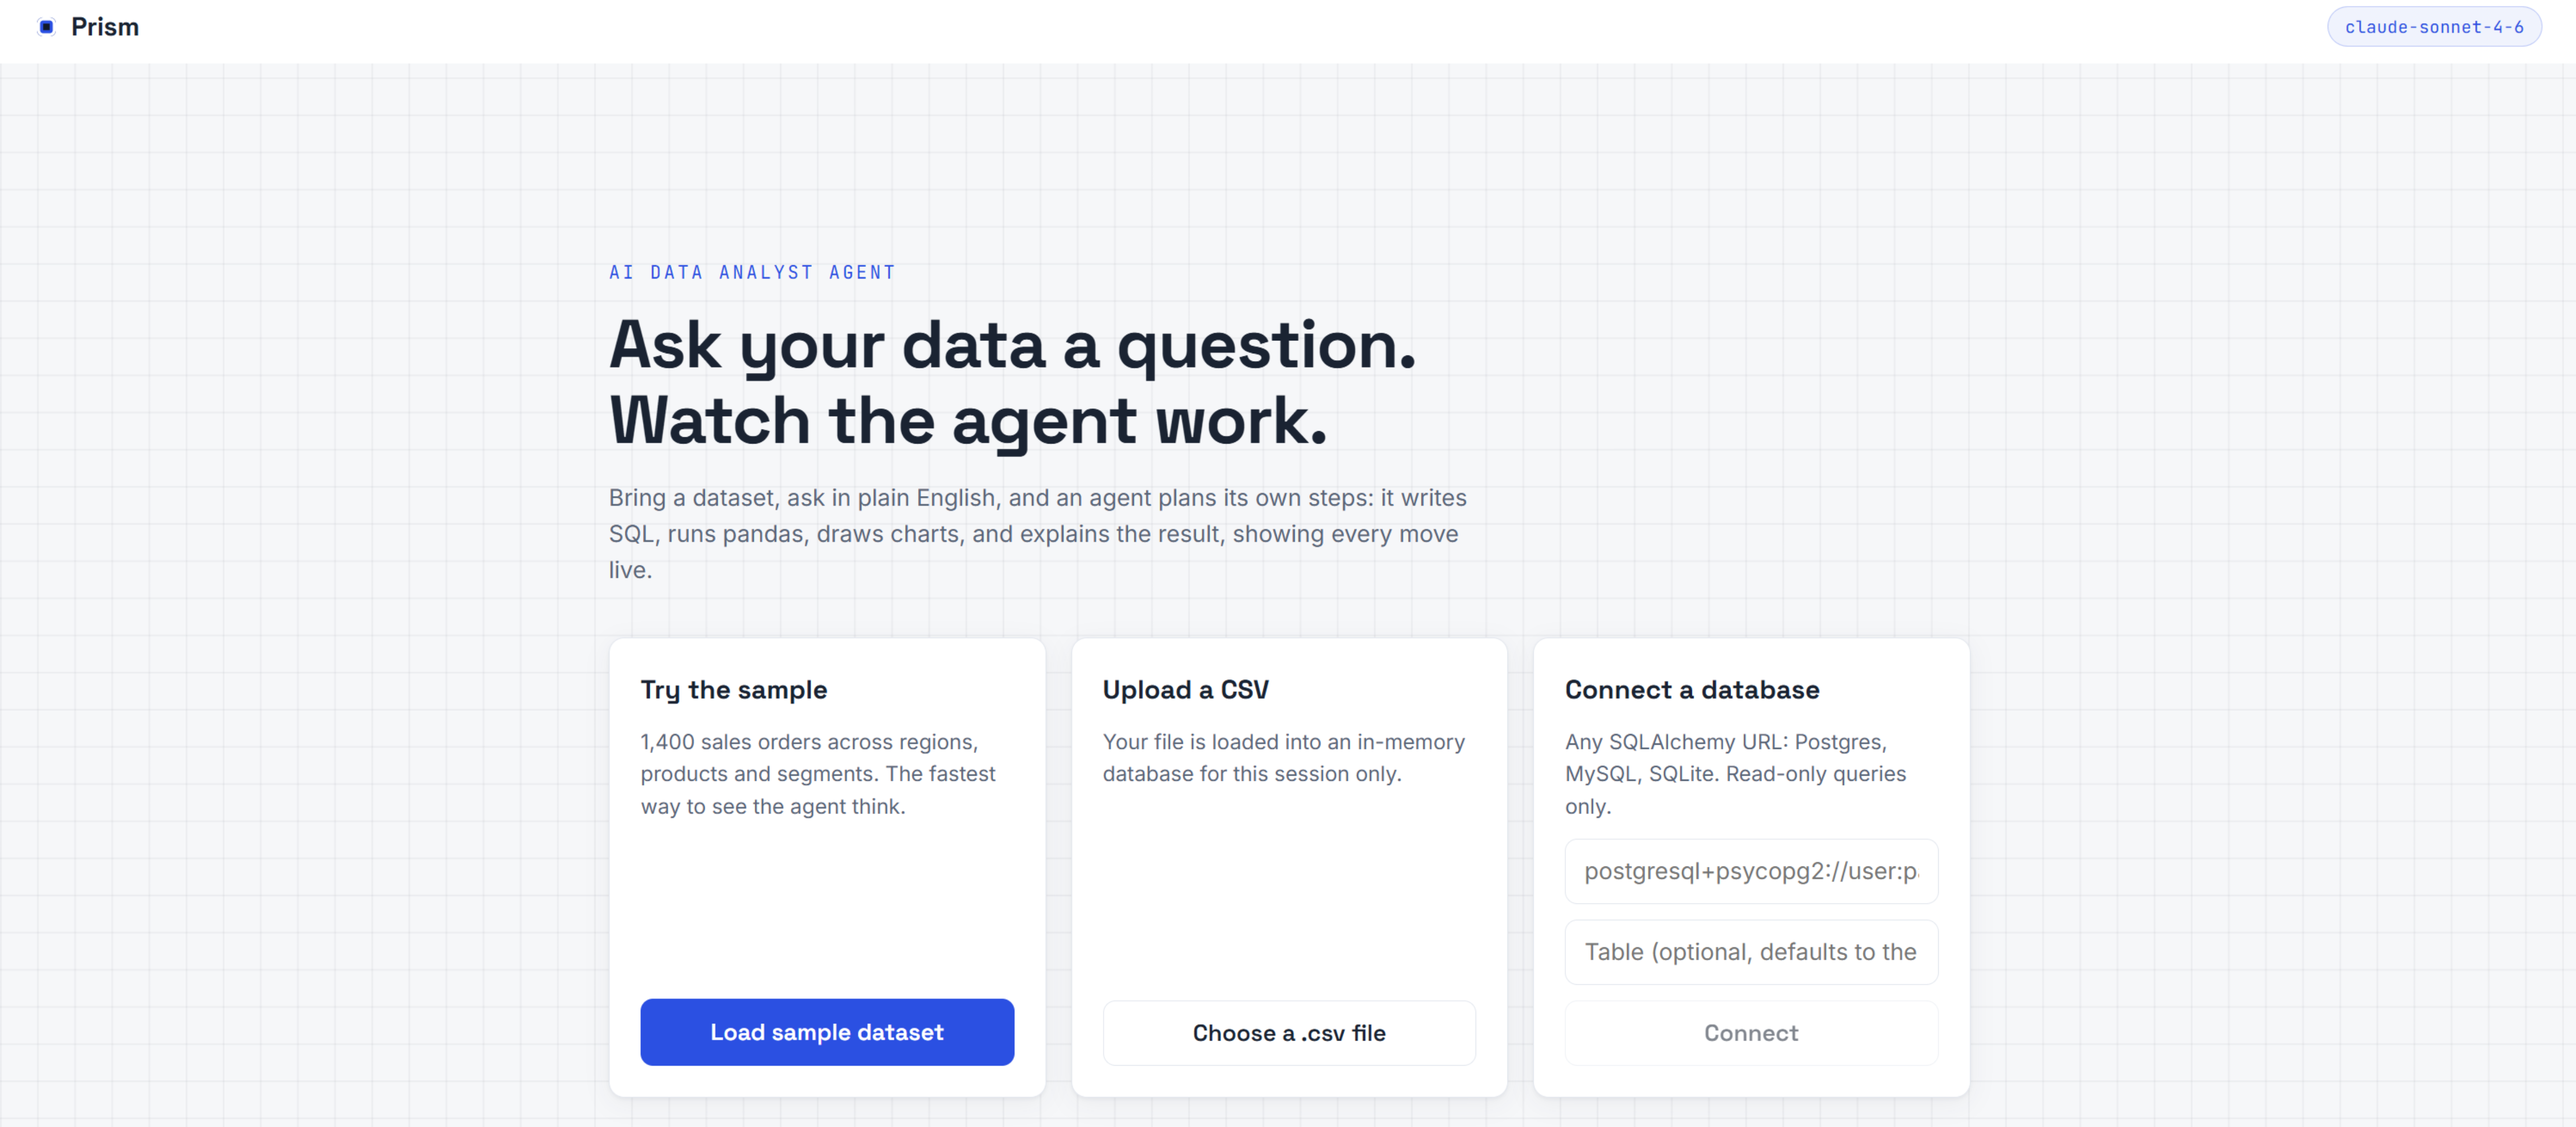
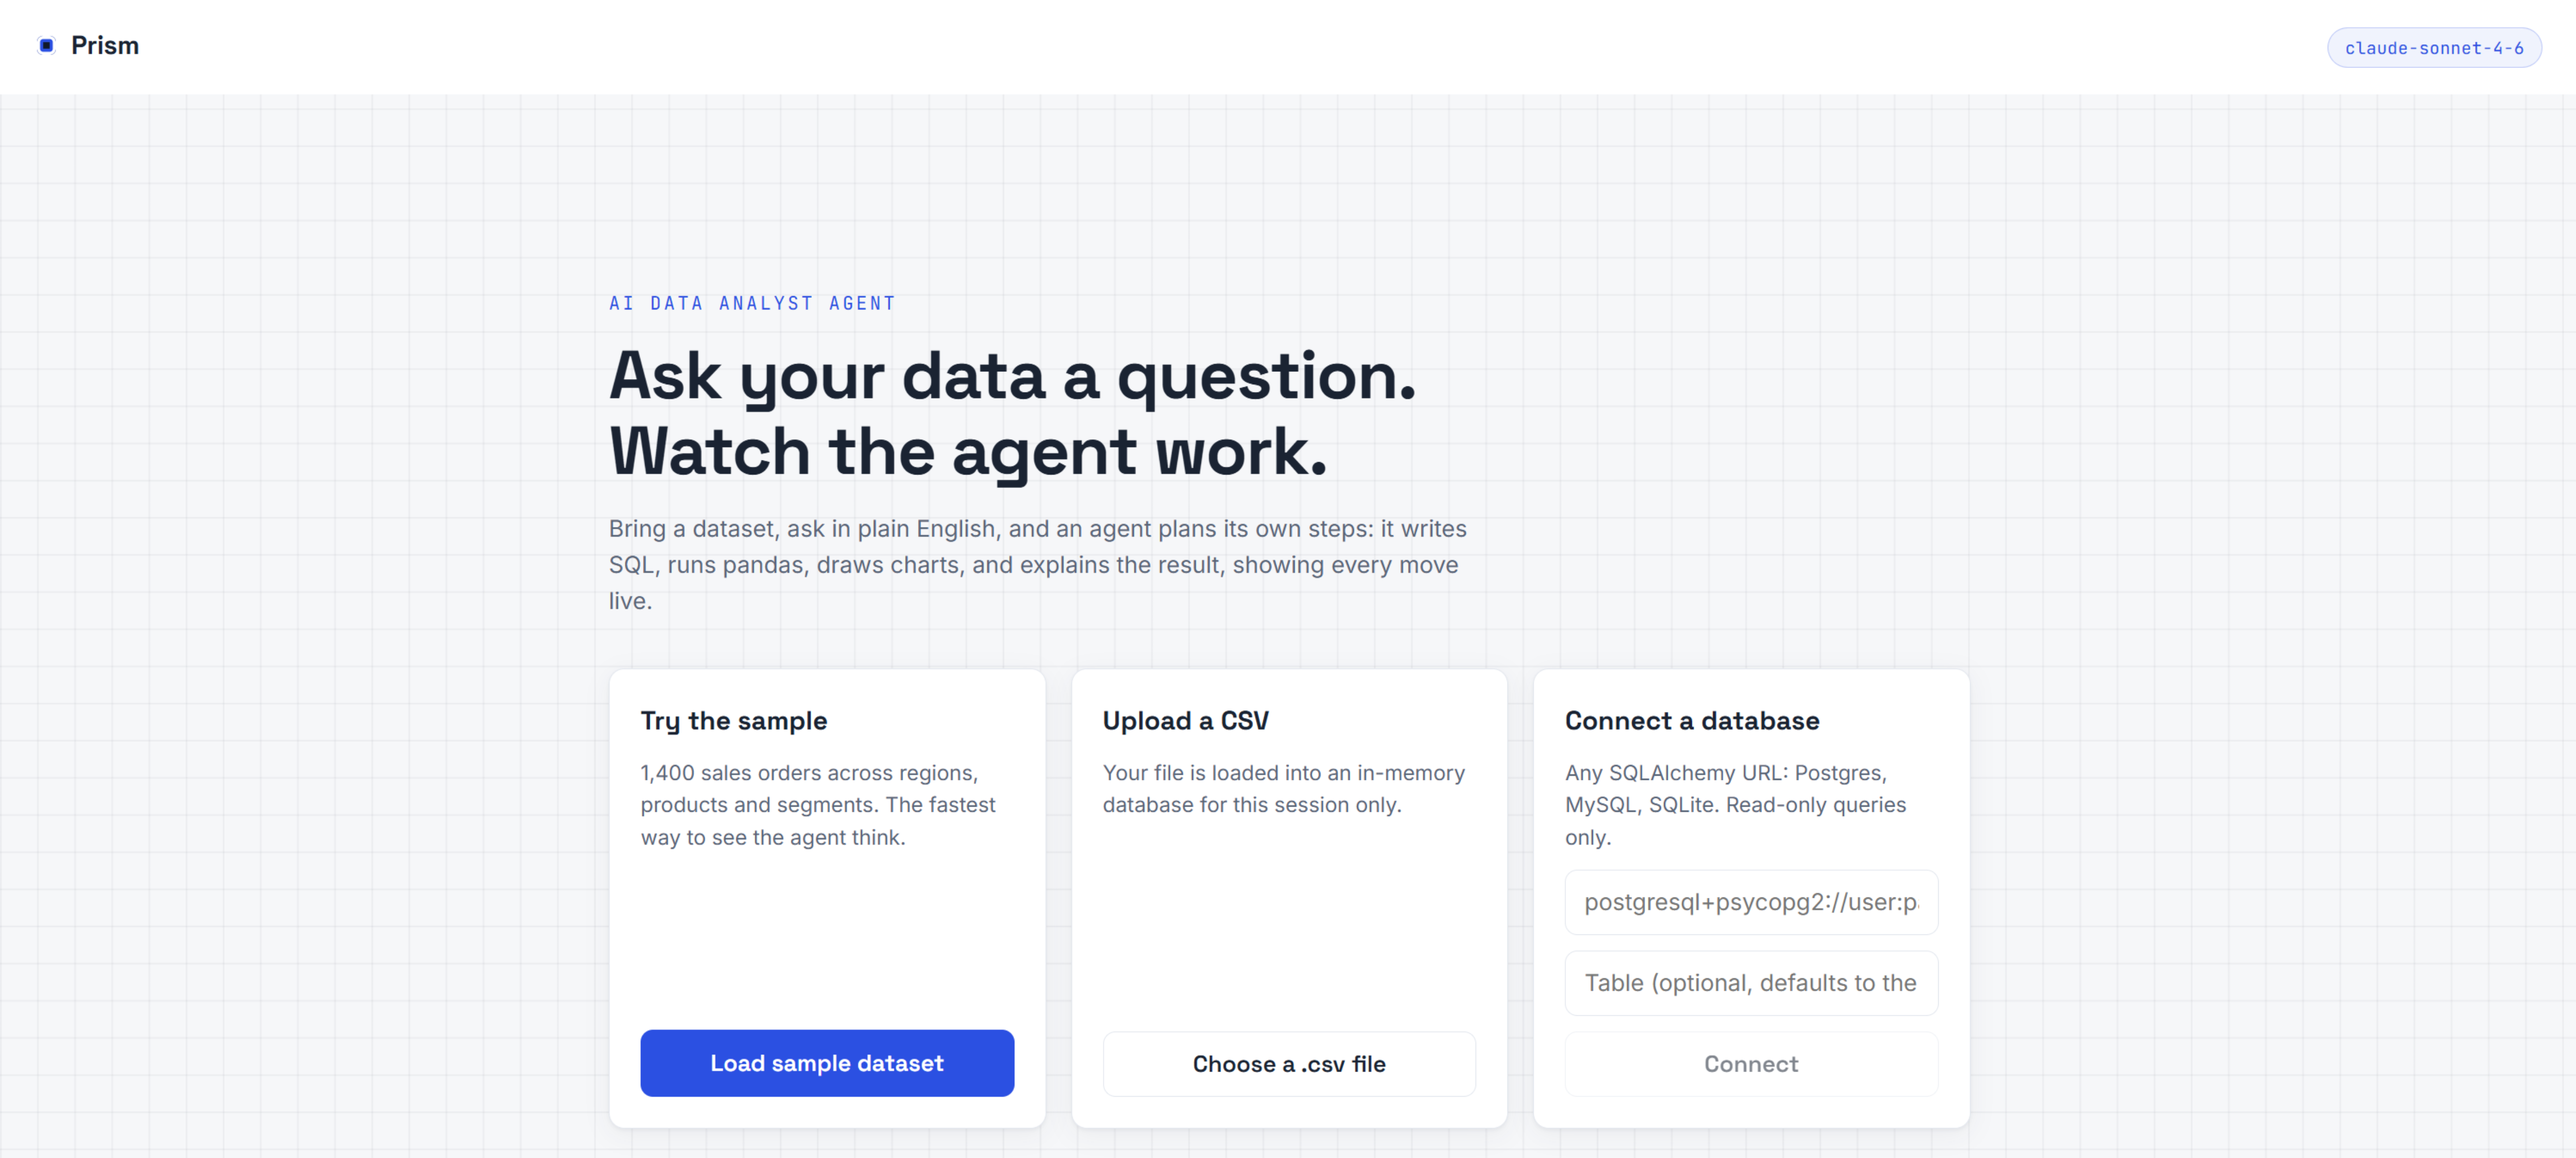
Refresh the demo and fix the getting-started header spacing

diff --git a/README.md b/README.md
@@ -27,9 +27,9 @@
 </p>
 
 <p align="center">
-  <img src="docs/images/demo.gif" alt="The agent splitting one question into two tasks and running them in parallel" width="900">
+  <img src="docs/images/demo.gif" alt="A session on the bundled sample: a simple question, a line chart, a two-part question running as parallel tasks, and KPI cards" width="900">
   <br>
-  <em>"Revenue by region as a chart and revenue by category" becomes two tasks running at the same time. Sped up 3x.</em>
+  <em>One session on the bundled sample: a simple question, a monthly trend as a line chart, a two-part question that runs as parallel tasks, and KPI cards.</em>
 </p>
 
 ---

diff --git a/docs/README.md b/docs/README.md
@@ -45,7 +45,7 @@ The screenshots and the demo in `images/` come from real runs against the bundle
 
 | File | Shows |
 | --- | --- |
-| `demo.gif` | A two-part question splitting into parallel tasks |
+| `demo.gif` | A full session: a simple question, a line chart, parallel tasks and KPI cards |
 | `agent-graph.png` | The orchestrator and worker graphs |
 | `getting-started.png` | The three ways to load data |
 | `kpi-cards.png` | A finished answer with KPI cards |
